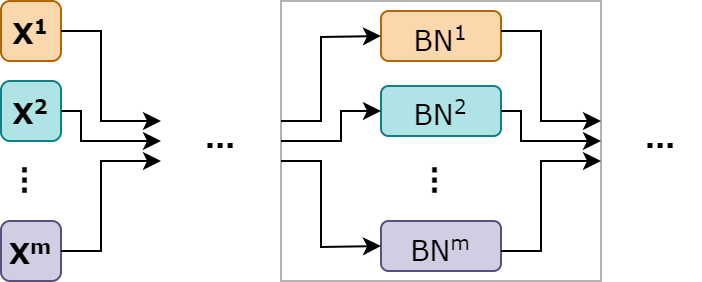
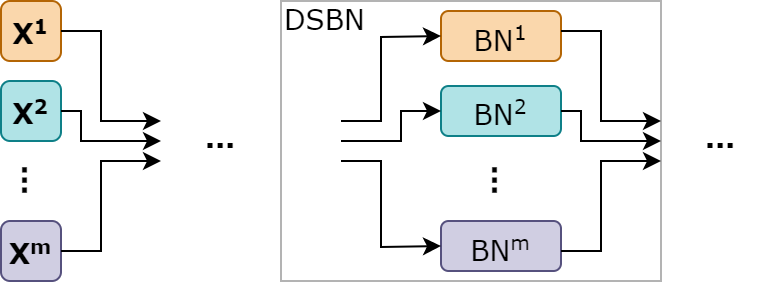
gather

diff --git a/_posts/2022-09-30-domain-generalization-part-4.md b/_posts/2022-09-30-domain-generalization-part-4.md
@@ -198,7 +198,7 @@ In particular, an original ResNet can is modified to become a DS I-BN ResNet in 
 What is the DSBN? DSBN is a module that consists of $M$ BN layers, using parameters of each BN layer to capture domain-specific features of each individual domain in $M$ source domains. Specifically, during training, instances from domain $m$, $\mathbf{X}_{m}$ only go through the $m^{th}$ BN layer in the DSBN module. Figure 4 illustrates the module and Snippet 5 is its implementation in a 1-dimensional version. 
 {: style="text-align: justify;"}
 
-<figure class="align-center" style="width: 500px">
+<figure class="align-center" style="width: 400px">
   <img src="{{ site.url }}{{ site.baseurl }}/assets/images/domain-generalization/domain-specific-batch-normalization.jpg">
   <figcaption>Figure 4. Domain-specific batch normalization module architecture. </figcaption>
 </figure>
@@ -235,6 +235,18 @@ At inference time, a test instance is fed into all $M$ "sub-networks" of all dom
 
 ## 5. Results
 The table below shows the performance of the two presented methods in this article. 
+{: style="text-align: justify;"}
+
+|            |    Chapman |       CPSC | CPSC-Extra |      G12EC |     Ningbo |     PTB-XL |        Avg |
+| :--------- | ---------: | ---------: | ---------: | ---------: | ---------: | ---------: | ---------: |
+| Baseline &nbsp; &nbsp; | &nbsp; &nbsp; &nbsp; &nbsp; &nbsp; 0.4290 | &nbsp; &nbsp; &nbsp; &nbsp; &nbsp; 0.1643 | &nbsp; &nbsp; &nbsp; &nbsp; &nbsp; 0.2067 | &nbsp; &nbsp; &nbsp; &nbsp; &nbsp; 0.3809 | &nbsp; &nbsp; &nbsp; &nbsp; &nbsp; 0.3987 | &nbsp; &nbsp; &nbsp; &nbsp; &nbsp; 0.3626 | &nbsp; &nbsp; &nbsp; &nbsp; &nbsp; 0.3237 |
+| AgeReg | &nbsp; &nbsp; &nbsp; &nbsp; &nbsp; 0.4222 | &nbsp; &nbsp; &nbsp; &nbsp; &nbsp; 0.1715 | &nbsp; &nbsp; &nbsp; &nbsp; &nbsp; 0.2136 | &nbsp; &nbsp; &nbsp; &nbsp; &nbsp; 0.3923 | &nbsp; &nbsp; &nbsp; &nbsp; &nbsp; 0.4024 | &nbsp; &nbsp; &nbsp; &nbsp; &nbsp; 0.4021 | &nbsp; &nbsp; &nbsp; &nbsp; &nbsp; 0.3340 |
+| SWA | &nbsp; &nbsp; &nbsp; &nbsp; &nbsp; 0.4271 | &nbsp; &nbsp; &nbsp; &nbsp; &nbsp; 0.1759 | &nbsp; &nbsp; &nbsp; &nbsp; &nbsp; 0.2052 | &nbsp; &nbsp; &nbsp; &nbsp; &nbsp; 0.3969 | &nbsp; &nbsp; &nbsp; &nbsp; &nbsp; 0.4313 | &nbsp; &nbsp; &nbsp; &nbsp; &nbsp; 0.4203 | &nbsp; &nbsp; &nbsp; &nbsp; &nbsp; 0.3428 |
+| Mixup | &nbsp; &nbsp; &nbsp; &nbsp; &nbsp; 0.4225 | &nbsp; &nbsp; &nbsp; &nbsp; &nbsp; 0.1759 | &nbsp; &nbsp; &nbsp; &nbsp; &nbsp; 0.2127 | &nbsp; &nbsp; &nbsp; &nbsp; &nbsp; 0.3901 | &nbsp; &nbsp; &nbsp; &nbsp; &nbsp; 0.4025 | &nbsp; &nbsp; &nbsp; &nbsp; &nbsp; 0.3934 | &nbsp; &nbsp; &nbsp; &nbsp; &nbsp; 0.3329 |
+| MixStyle | &nbsp; &nbsp; &nbsp; &nbsp; &nbsp; 0.4253 | &nbsp; &nbsp; &nbsp; &nbsp; &nbsp; 0.1681 | &nbsp; &nbsp; &nbsp; &nbsp; &nbsp; 0.2027 | &nbsp; &nbsp; &nbsp; &nbsp; &nbsp; 0.3927 | &nbsp; &nbsp; &nbsp; &nbsp; &nbsp; 0.4117 | &nbsp; &nbsp; &nbsp; &nbsp; &nbsp; 0.3853 | &nbsp; &nbsp; &nbsp; &nbsp; &nbsp; 0.3310 |
+| DAT | &nbsp; &nbsp; &nbsp; &nbsp; &nbsp; 0.4282 | &nbsp; &nbsp; &nbsp; &nbsp; &nbsp; 0.1712 | &nbsp; &nbsp; &nbsp; &nbsp; &nbsp; 0.1966 | &nbsp; &nbsp; &nbsp; &nbsp; &nbsp; 0.3956 | &nbsp; &nbsp; &nbsp; &nbsp; &nbsp; 0.4114 | &nbsp; &nbsp; &nbsp; &nbsp; &nbsp; 0.3878 | &nbsp; &nbsp; &nbsp; &nbsp; &nbsp; **0.3318** |
+| I-BN | &nbsp; &nbsp; &nbsp; &nbsp; &nbsp; 0.4252 | &nbsp; &nbsp; &nbsp; &nbsp; &nbsp; 0.1748 | &nbsp; &nbsp; &nbsp; &nbsp; &nbsp; 0.2045 | &nbsp; &nbsp; &nbsp; &nbsp; &nbsp; 0.3817 | &nbsp; &nbsp; &nbsp; &nbsp; &nbsp; 0.4193 | &nbsp; &nbsp; &nbsp; &nbsp; &nbsp; 0.4161 | &nbsp; &nbsp; &nbsp; &nbsp; &nbsp; **0.3369** |
+| DS I-BN | &nbsp; &nbsp; &nbsp; &nbsp; &nbsp; 0.4484 | &nbsp; &nbsp; &nbsp; &nbsp; &nbsp; 0.1805 | &nbsp; &nbsp; &nbsp; &nbsp; &nbsp; 0.2191 | &nbsp; &nbsp; &nbsp; &nbsp; &nbsp; 0.4318 | &nbsp; &nbsp; &nbsp; &nbsp; &nbsp; 0.3916 | &nbsp; &nbsp; &nbsp; &nbsp; &nbsp; 0.4242 | &nbsp; &nbsp; &nbsp; &nbsp; &nbsp; **0.3493** |
 {: style="text-align: justify;"}
 
 To be continued ...
